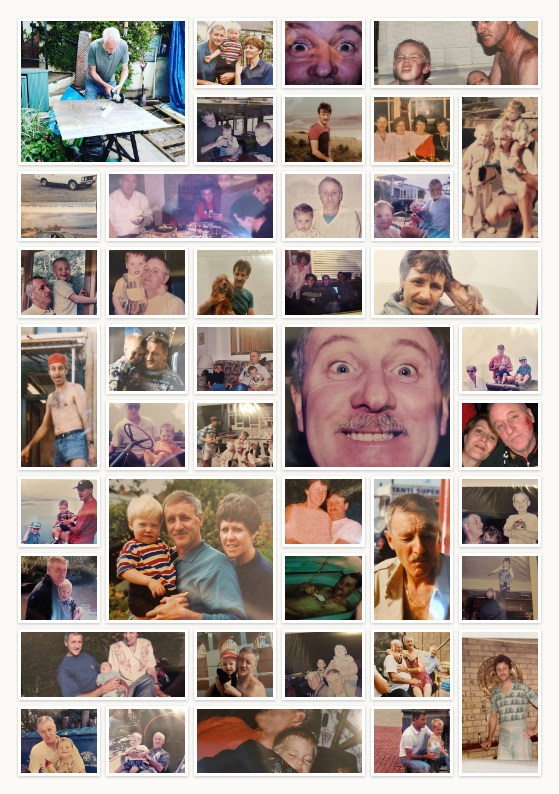
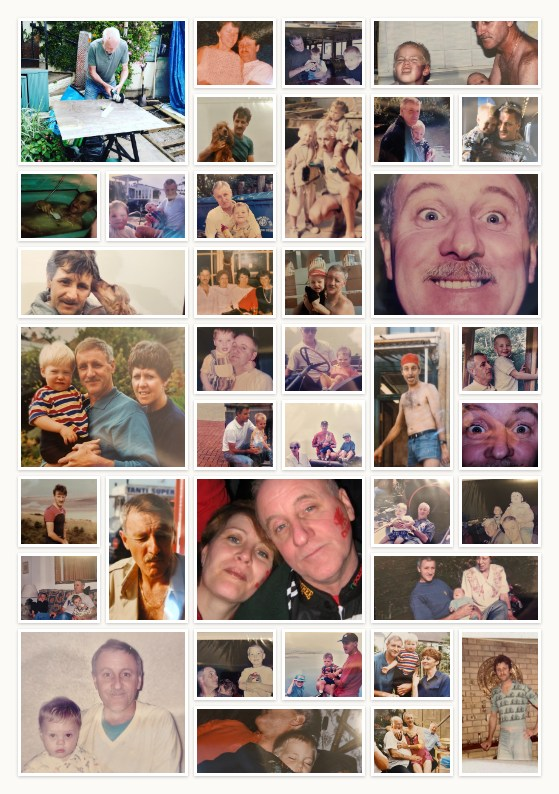
Photo collage: no duplicates, Ivor in every photo

diff --git a/index.html b/index.html
@@ -330,7 +330,7 @@ const DRAFTS=[
  ["Order of service","p3","Page 3 · Hymn and reading","drafts/Ivor-3-hymn.jpg?v=12"],
  ["Order of service","p5","Page 4 · Eulogy","drafts/Ivor-5-about-ivor.jpg?v=9"],
  ["Order of service","p6","Page 5 · Remembering Ivor","drafts/Ivor-6-photos.jpg?v=10"],
- ["Order of service","col","Page 6 · Photo collage","drafts/Ivor-7-collage.jpg?v=12"],
+ ["Order of service","col","Page 6 · Photo collage","drafts/Ivor-7-collage.jpg?v=13"],
  ["Order of service","p7","Page 7 · Thank you and afterwards","drafts/Ivor-7-thank-you.jpg?v=7"],
  ["Order of service","p8","Page 8 · Back cover","drafts/Ivor-8-back-cover.jpg?v=2"],
  ["Invitations and cards","inv","Invitation (funeral and wake)","drafts/Ivor-funeral-invitation.jpg?v=15"],
